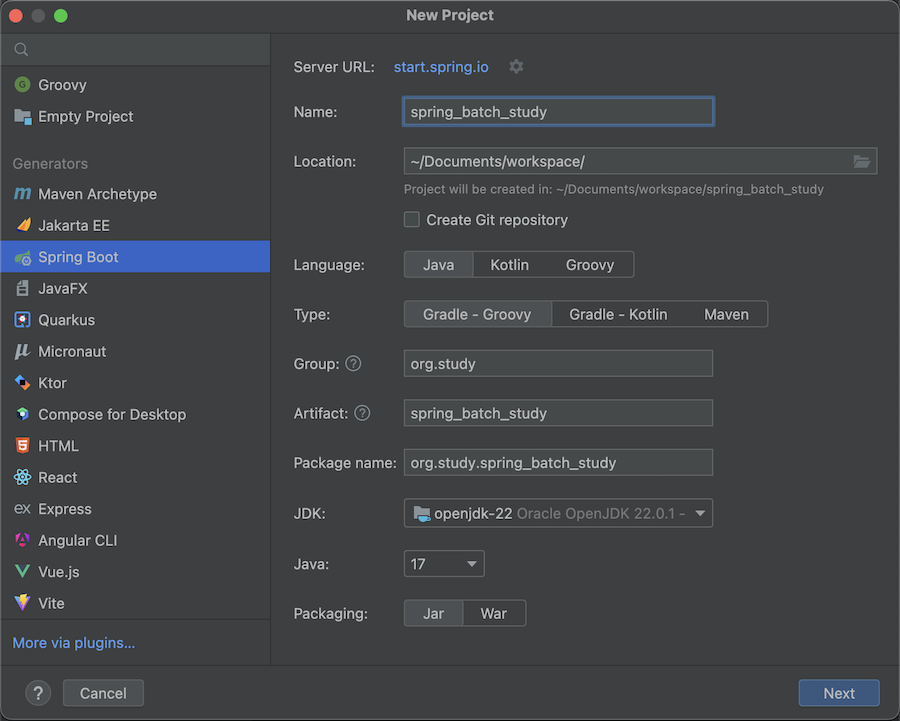
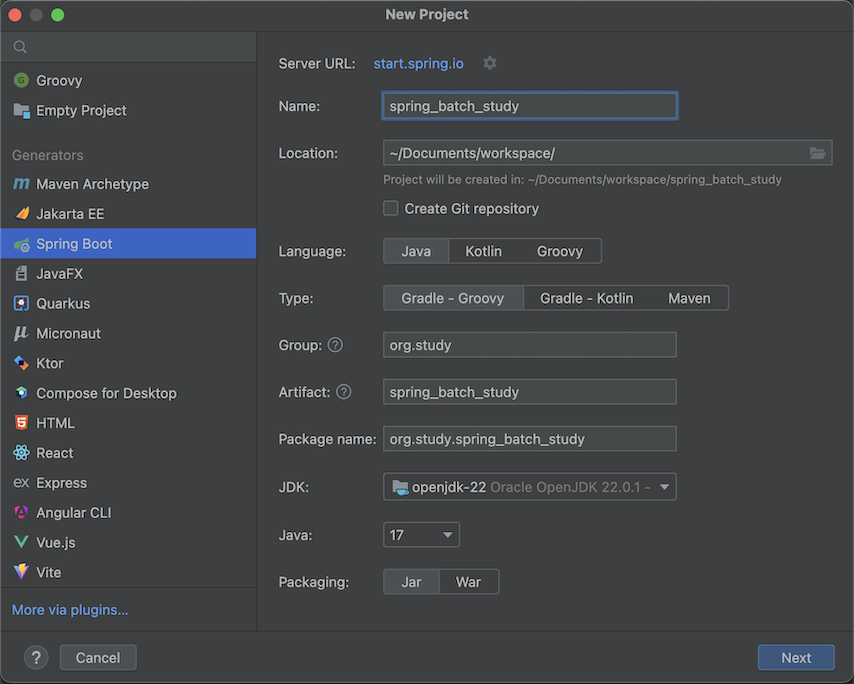
이미지 사이즈 재조정 및 커버 이미지 변경

diff --git a/_posts/2025-02-08-01-Spring-Batch-빠르게-시작하기.md b/_posts/2025-02-08-01-Spring-Batch-빠르게-시작하기.md
@@ -1,3 +1,11 @@
+---
+title: 01 Spring Batch 빠르게 시작하기
+tags: SpringBatch
+article_header:
+  type: cover
+  image:
+    src: /assets/images/posts/2025-02-08-01-Spring-Batch-빠르게-시작하기/spring_batch_schema.png
+---
 # **Spring Batch 초기화 및 스프링배치 필요정보**
 
 ## 기본 프로젝트 구성하기
